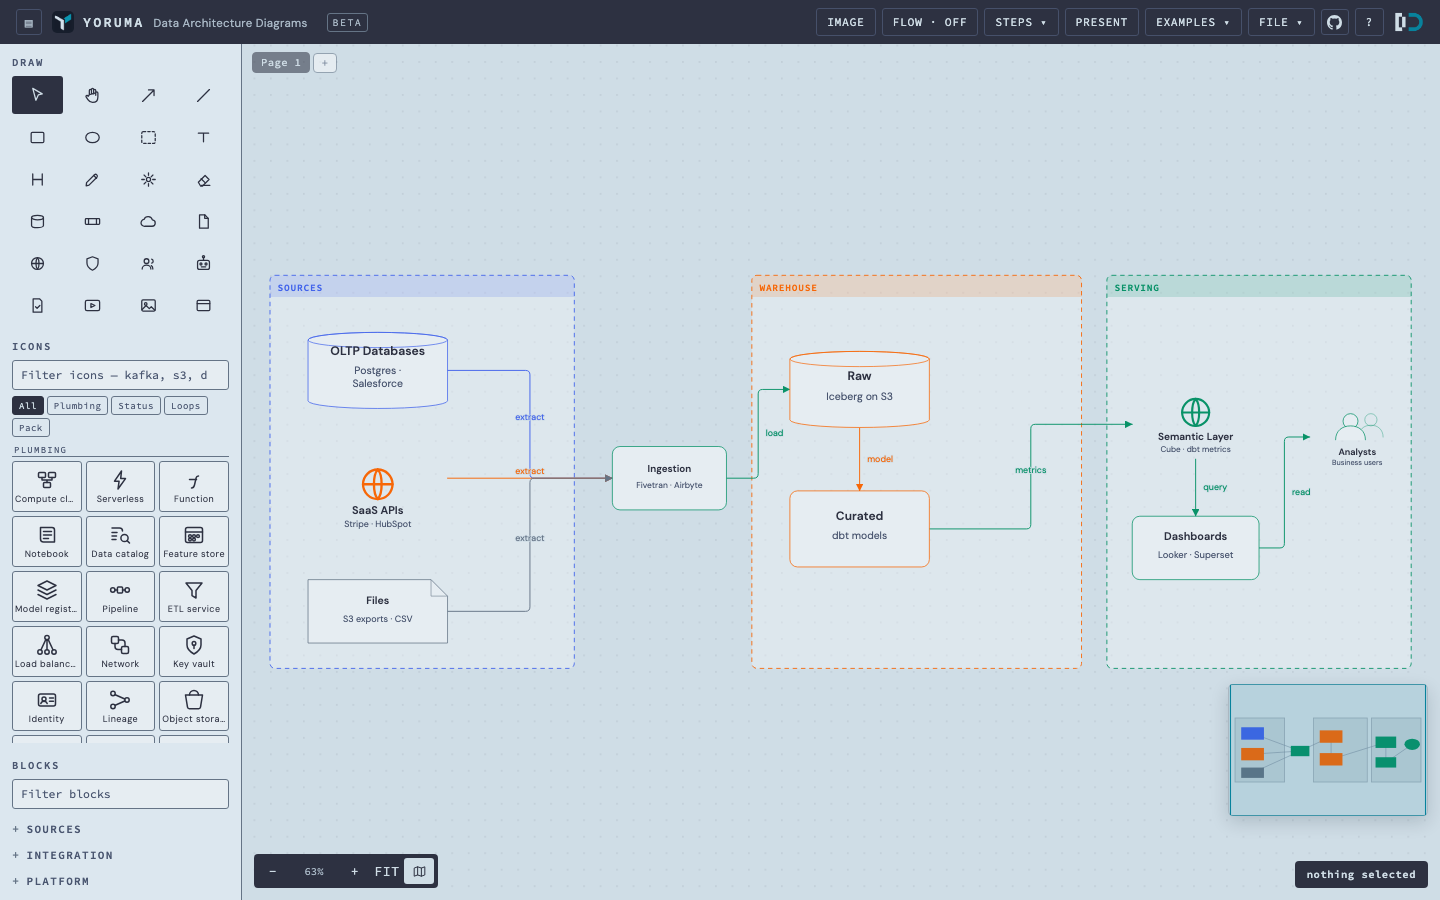
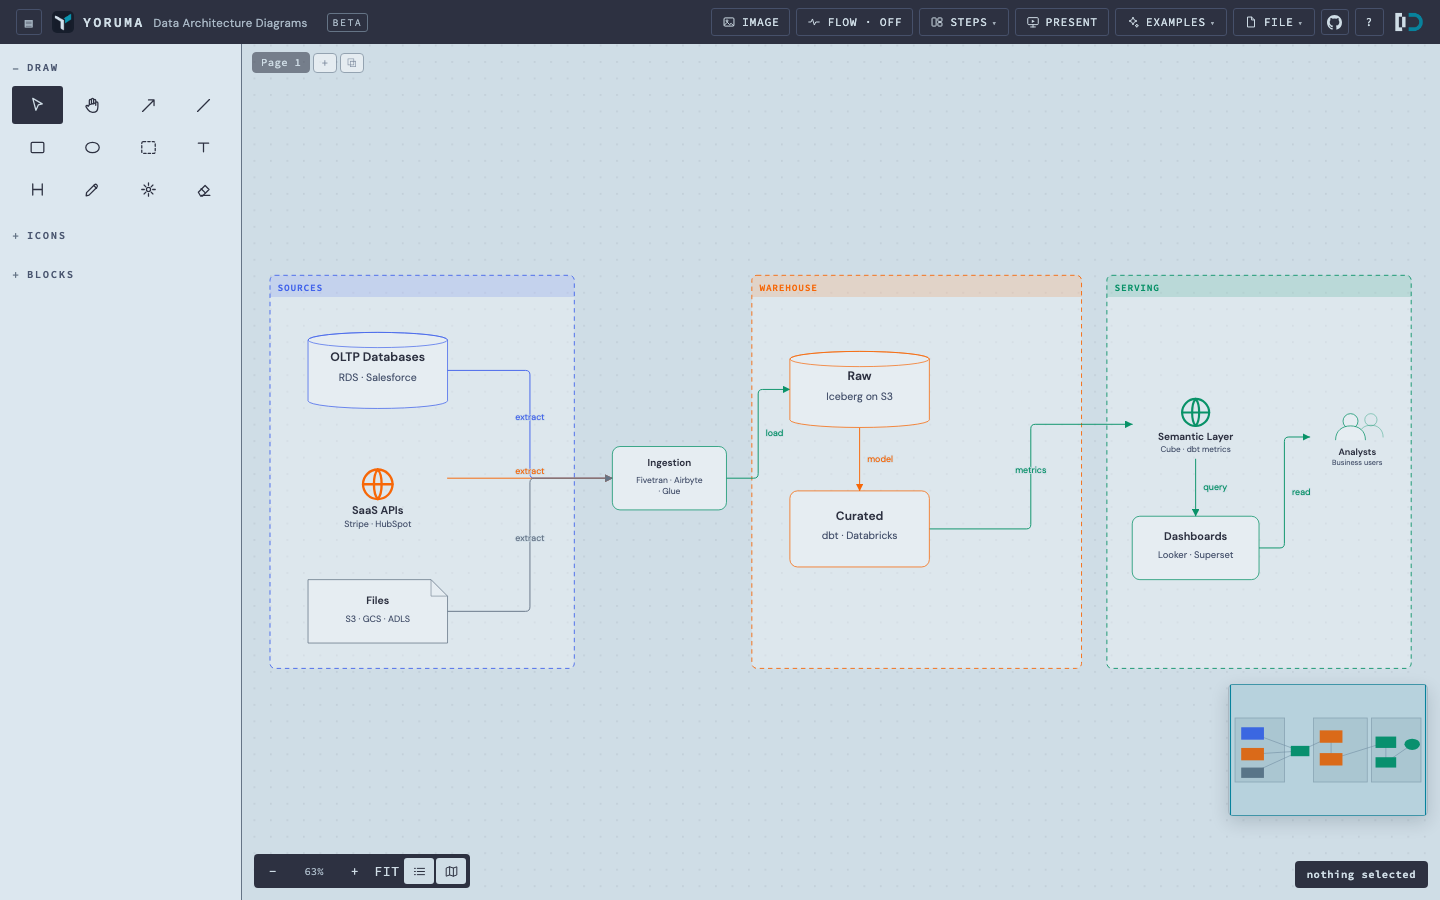
docs: refresh screenshots and credits
Regenerate the editor, zone and present screenshots from the current
build. Broaden the credits to the tools that inspired the interaction
patterns, and state that no source code from them is included or
adapted. Product names are described as inspiration only.

💘 Generated with Crush

Assisted-by: Crush:deepseek-v4.1-flash-1017

diff --git a/README.md b/README.md
@@ -502,10 +502,16 @@ Download a JSON copy of anything you cannot afford to lose.
 
 ## Credits
 
-The interaction and motion ideas owe a debt to
+yoruma's interaction and motion patterns were inspired by tools we admire:
+[draw.io](https://github.com/jgraph/drawio),
+[Excalidraw](https://github.com/excalidraw/excalidraw),
+[tldraw](https://github.com/tldraw/tldraw),
+[Whimsical](https://whimsical.com) and
 [Fluyo](https://github.com/itsnect/fluyo) (MIT), an animated diagram editor by
-Claudio Jiménez Flores. No Fluyo source is copied here; where the two projects
-overlap, the code is independent.
+Claudio Jiménez Flores. No source code from those projects is included or
+adapted; where behavior overlaps, the implementation here is independent.
+Product names are trademarks of their respective owners and are used only to
+describe that inspiration; no affiliation or endorsement is implied.
 
 ## Licence
 
